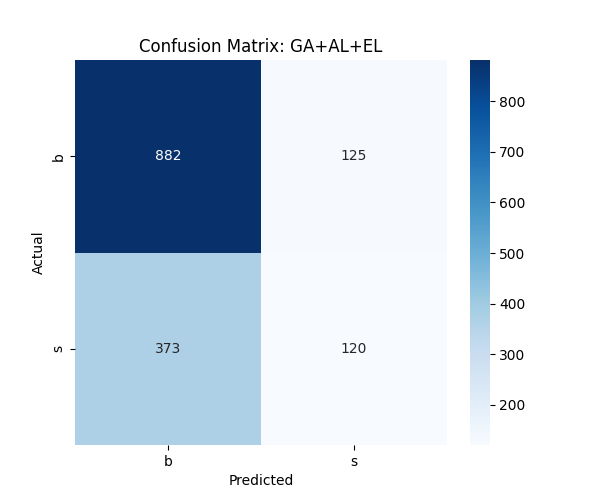
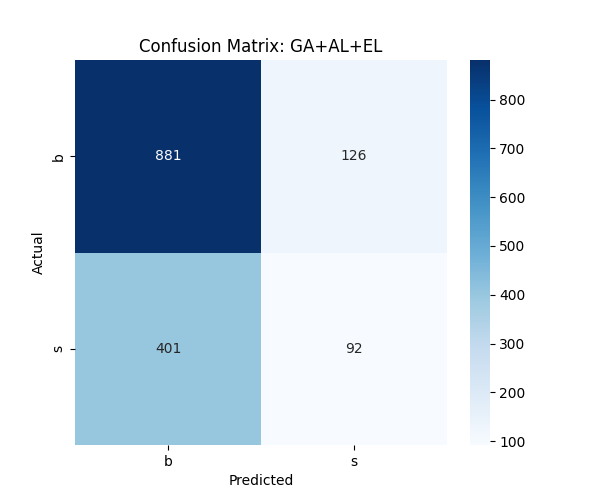
Filter Pool implementation

diff --git a/src/genetic_programming.py b/src/genetic_programming.py
@@ -88,9 +88,10 @@ def eval_classifier(individual, points, labels, toolbox):
     except (OverflowError, ZeroDivisionError, ValueError):
         return (0.0,)
 
-def run_active_learning_ga(X_train, y_train, X_pool, y_pool, pset, toolbox, n_gen=10, pop_size=50, k=3, n_instances=10):
+def run_active_learning_ga(X_train, y_train, X_pool, y_pool, pset, toolbox, n_gen=10, pop_size=50, k=3, n_instances=10, mask_pool=None):
     """
     Runs the Genetic Algorithm loop with Active Learning integration.
+    Optional mask_pool (boolean array) to filter out candidates for querying.
     """
     # Register evaluation function with initial data
     toolbox.register("evaluate", eval_classifier, points=X_train, labels=y_train, toolbox=toolbox)
@@ -118,6 +119,7 @@ def run_active_learning_ga(X_train, y_train, X_pool, y_pool, pset, toolbox, n_ge
     curr_y_train = np.copy(y_train)
     curr_X_pool = np.copy(X_pool)
     curr_y_pool = np.copy(y_pool)
+    curr_mask_pool = np.copy(mask_pool) if mask_pool is not None else np.zeros(len(y_pool), dtype=bool)
 
     # Initial evaluation
     invalid_ind = [ind for ind in pop if not ind.fitness.valid]
@@ -137,8 +139,18 @@ def run_active_learning_ga(X_train, y_train, X_pool, y_pool, pset, toolbox, n_ge
             best_ind = hof[0]
             classifier = GPClassifierWrapper(best_ind, toolbox)
             
-            # Query instances
-            query_idx, _ = uncertainty_sampling(classifier, curr_X_pool, n_instances=n_instances)
+            # Query instances - Filter out imputed samples (if mask exists)
+            valid_indices = np.where(~curr_mask_pool)[0]
+            
+            if len(valid_indices) >= n_instances:
+                # Sub-select from pool for sampling
+                X_pool_valid = curr_X_pool[valid_indices]
+                query_idx_local, _ = uncertainty_sampling(classifier, X_pool_valid, n_instances=n_instances)
+                # Map back to original pool indices
+                query_idx = valid_indices[query_idx_local]
+            else:
+                # Fallback to standard sampling if not enough valid candidates
+                query_idx, _ = uncertainty_sampling(classifier, curr_X_pool, n_instances=min(n_instances, len(curr_X_pool)))
             
             # Update data
             curr_X_train = np.vstack([curr_X_train, curr_X_pool[query_idx]])
@@ -146,6 +158,7 @@ def run_active_learning_ga(X_train, y_train, X_pool, y_pool, pset, toolbox, n_ge
             
             curr_X_pool = np.delete(curr_X_pool, query_idx, axis=0)
             curr_y_pool = np.delete(curr_y_pool, query_idx, axis=0)
+            curr_mask_pool = np.delete(curr_mask_pool, query_idx, axis=0)
             
             print(f"Added {n_instances} samples. New training set size: {len(curr_X_train)}")
             

diff --git a/src/preprocessing.py b/src/preprocessing.py
@@ -103,22 +103,25 @@ def apply_pca(X_train, X_test, n_components=0.90):
 def split_data(df, test_size=0.3, random_state=42):
     """
     Split the dataframe into training and testing sets.
-    Returns X_train, X_test, y_train, y_test, and weights if available.
+    Returns X_train, X_test, y_train, y_test, weights, and missing_mask.
     """
-    metadata_cols = ['EventId', 'Weight', 'KaggleSet', 'KaggleWeight', 'Label']
+    metadata_cols = ['EventId', 'Weight', 'KaggleSet', 'KaggleWeight', 'Label', 'HasMissing']
     feature_cols = [col for col in df.columns if col not in metadata_cols]
     
     X = df[feature_cols]
     y = df['Label']
-    weights = df['Weight'] if 'Weight' in df.columns else None
     
-    if weights is not None:
-        X_train, X_test, y_train, y_test, w_train, w_test = train_test_split(
-            X, y, weights, test_size=test_size, random_state=random_state, stratify=y
-        )
-        return X_train, X_test, y_train, y_test, w_train, w_test
-    else:
-        X_train, X_test, y_train, y_test = train_test_split(
-            X, y, test_size=test_size, random_state=random_state, stratify=y
-        )
-        return X_train, X_test, y_train, y_test, None, None
+    # Handle optional metadata
+    weights = df['Weight'] if 'Weight' in df.columns else pd.Series([1.0] * len(df))
+    mask = df['HasMissing'] if 'HasMissing' in df.columns else pd.Series([False] * len(df))
+    
+    # Bundle metadata to split it consistently
+    meta = pd.concat([weights.rename('w'), mask.rename('m')], axis=1)
+    
+    X_train, X_test, y_train, y_test, meta_train, meta_test = train_test_split(
+        X, y, meta, test_size=test_size, random_state=random_state, stratify=y
+    )
+    
+    return (X_train, X_test, y_train, y_test,
+            meta_train['w'].values, meta_test['w'].values,
+            meta_train['m'].values, meta_test['m'].values)

diff --git a/comparative_analysis.py b/comparative_analysis.py
@@ -89,7 +89,7 @@ def main():
     # Preprocessing
     df = clean_missing_values(df)
     df, le = encode_labels(df)
-    X_train, X_test, y_train, y_test, _, _ = split_data(df, test_size=0.3)
+    X_train, X_test, y_train, y_test, _, _, m_train, _ = split_data(df, test_size=0.3)
     X_train_scaled, X_test_scaled, _ = scale_features(X_train, X_test)
     
     y_test_vals = y_test.values
@@ -137,14 +137,16 @@ def main():
     y_train_initial = y_train.values[:n_initial]
     X_pool = X_train_scaled[n_initial:]
     y_pool = y_train.values[n_initial:]
+    mask_pool = m_train[n_initial:]
     
     start_time = time.time()
     pop_al, _, hof_al = run_active_learning_ga(
-        X_train_initial, y_train_initial, 
-        X_pool, y_pool, 
-        pset, toolbox, 
-        n_gen=n_gen, pop_size=pop_size, 
-        k=3, n_instances=20
+        X_train_initial, y_train_initial,
+        X_pool, y_pool,
+        pset, toolbox,
+        n_gen=n_gen, pop_size=pop_size,
+        k=3, n_instances=20,
+        mask_pool=mask_pool
     )
     elapsed_al = time.time() - start_time
     

diff --git a/main_preprocessing.py b/main_preprocessing.py
@@ -38,7 +38,7 @@ def main():
     joblib.dump(label_encoder, os.path.join(output_dir, 'label_encoder.joblib'))
     
     print("Splitting data...")
-    X_train, X_test, y_train, y_test, w_train, w_test = split_data(df)
+    X_train, X_test, y_train, y_test, w_train, w_test, m_train, m_test = split_data(df)
     print(f"Train shape: {X_train.shape}, Test shape: {X_test.shape}")
     
     print("Scaling features using RobustScaler...")
@@ -51,8 +51,8 @@ def main():
     print(f"PCA reduced dimensions from {X_train_scaled.shape[1]} to {X_train_pca.shape[1]}")
     
     print("Saving processed data...")
-    np.savez(os.path.join(output_dir, 'train_data.npz'), X=X_train_pca, y=y_train, w=w_train)
-    np.savez(os.path.join(output_dir, 'test_data.npz'), X=X_test_pca, y=y_test, w=w_test)
+    np.savez(os.path.join(output_dir, 'train_data.npz'), X=X_train_pca, y=y_train, w=w_train, m=m_train)
+    np.savez(os.path.join(output_dir, 'test_data.npz'), X=X_test_pca, y=y_test, w=w_test, m=m_test)
     
     print("Preprocessing complete. Files saved in 'processed_data/'")
 

diff --git a/src/data_loader.py b/src/data_loader.py
@@ -12,13 +12,16 @@ def load_higgs_data(csv_path):
 def clean_missing_values(df, missing_val=-999.0):
     """
     Handle missing values represented by -999.0.
-    Uses SimpleImputer with median strategy.
+    Uses SimpleImputer with median strategy and adds a 'HasMissing' indicator.
     """
-    df_cleaned = df.replace(missing_val, np.nan)
-    
     # Identify numeric columns (excluding metadata and label)
     metadata_cols = ['EventId', 'Weight', 'KaggleSet', 'KaggleWeight', 'Label']
-    feature_cols = [col for col in df_cleaned.columns if col not in metadata_cols]
+    feature_cols = [col for col in df.columns if col not in metadata_cols]
+
+    # Create missing indicator: True if ANY feature column is missing
+    df['HasMissing'] = df[feature_cols].eq(missing_val).any(axis=1)
+
+    df_cleaned = df.replace(missing_val, np.nan)
     
     # Initialize SimpleImputer with median strategy
     imputer = SimpleImputer(strategy='median')

diff --git a/main_genetic_programming.py b/main_genetic_programming.py
@@ -25,7 +25,7 @@ def main():
     print("Cleaning and preprocessing data...")
     df = clean_missing_values(df)
     df, le = encode_labels(df)
-    X_train, X_test, y_train, y_test, _, _ = split_data(df, test_size=0.3)
+    X_train, X_test, y_train, y_test, _, _, m_train, _ = split_data(df, test_size=0.3)
     
     # Scaling
     X_train_scaled, X_test_scaled, scaler = scale_features(X_train, X_test)
@@ -38,6 +38,7 @@ def main():
     
     X_pool = X_train_scaled[n_initial:]
     y_pool = y_train.values[n_initial:]
+    mask_pool = m_train[n_initial:]
     
     print(f"Initial Training Set size: {len(X_train_initial)}")
     print(f"Unlabeled Pool size: {len(X_pool)}")
@@ -55,7 +56,8 @@ def main():
         X_pool, y_pool, 
         pset, toolbox, 
         n_gen=10, pop_size=50, 
-        k=3, n_instances=20
+        k=3, n_instances=20,
+        mask_pool=mask_pool
     )
     
     best_ind = hof[0]

diff --git a/experiment/report.md b/experiment/report.md
@@ -4,7 +4,7 @@
 
 | Method | Accuracy | Precision | Recall | F1-Score | Time (s) |
 |--------|----------|-----------|--------|----------|----------|
-| GA | 0.7027 | 0.6093 | 0.2657 | 0.3701 | 6.32 |
-| Random | 0.6647 | 0.4888 | 0.4422 | 0.4643 | 0.90 |
-| GA+AL | 0.6487 | 0.4220 | 0.1866 | 0.2588 | 0.93 |
-| GA+AL+EL | 0.6680 | 0.4898 | 0.2434 | 0.3252 | 1.07 |
+| GA | 0.6913 | 0.5694 | 0.2495 | 0.3470 | 6.32 |
+| Random | 0.6880 | 0.5198 | 0.6653 | 0.5836 | 0.89 |
+| GA+AL | 0.7027 | 0.6093 | 0.2657 | 0.3701 | 0.90 |
+| GA+AL+EL | 0.6487 | 0.4220 | 0.1866 | 0.2588 | 1.04 |
